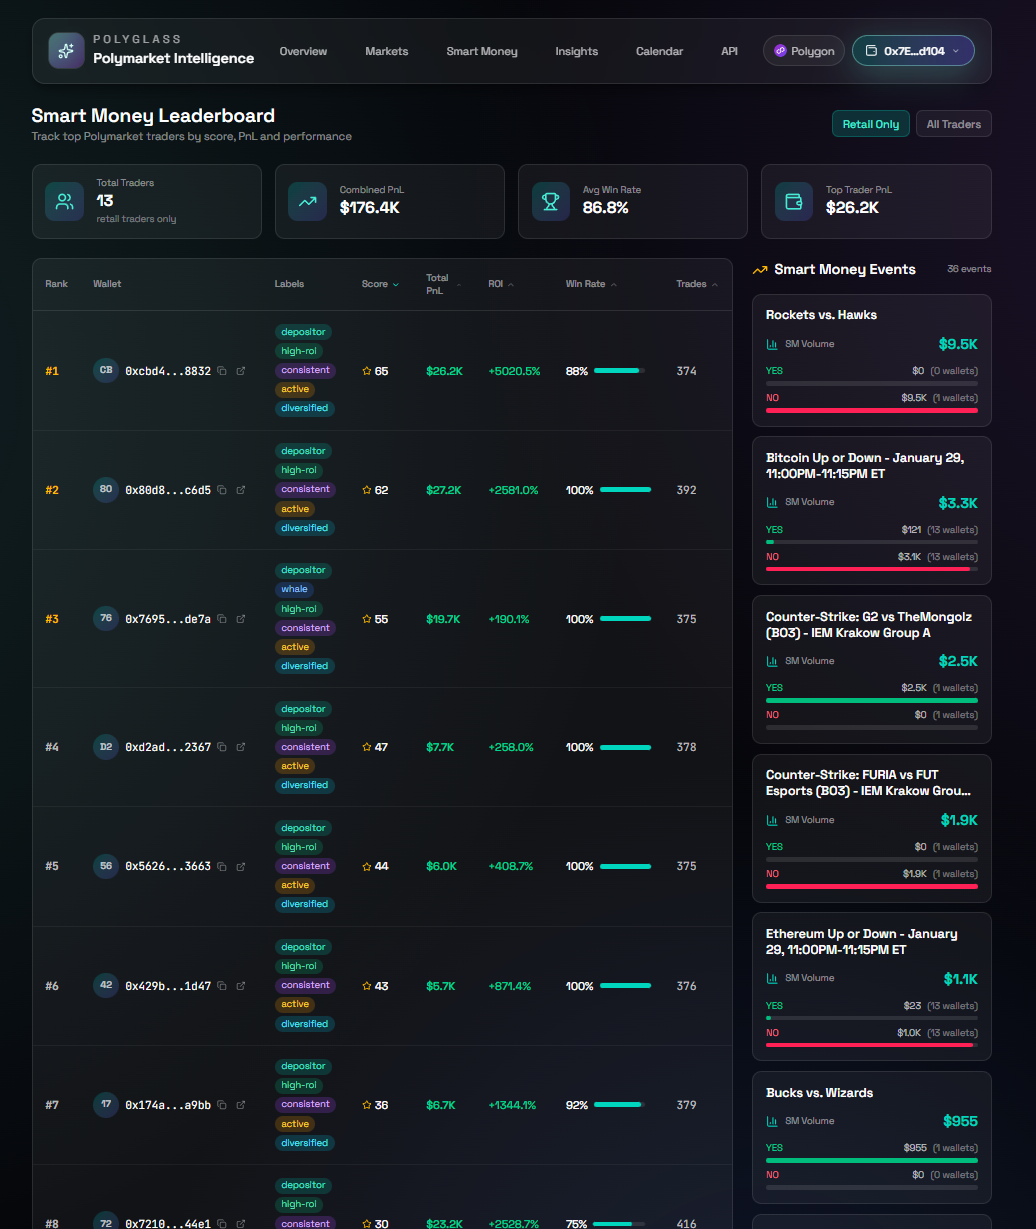
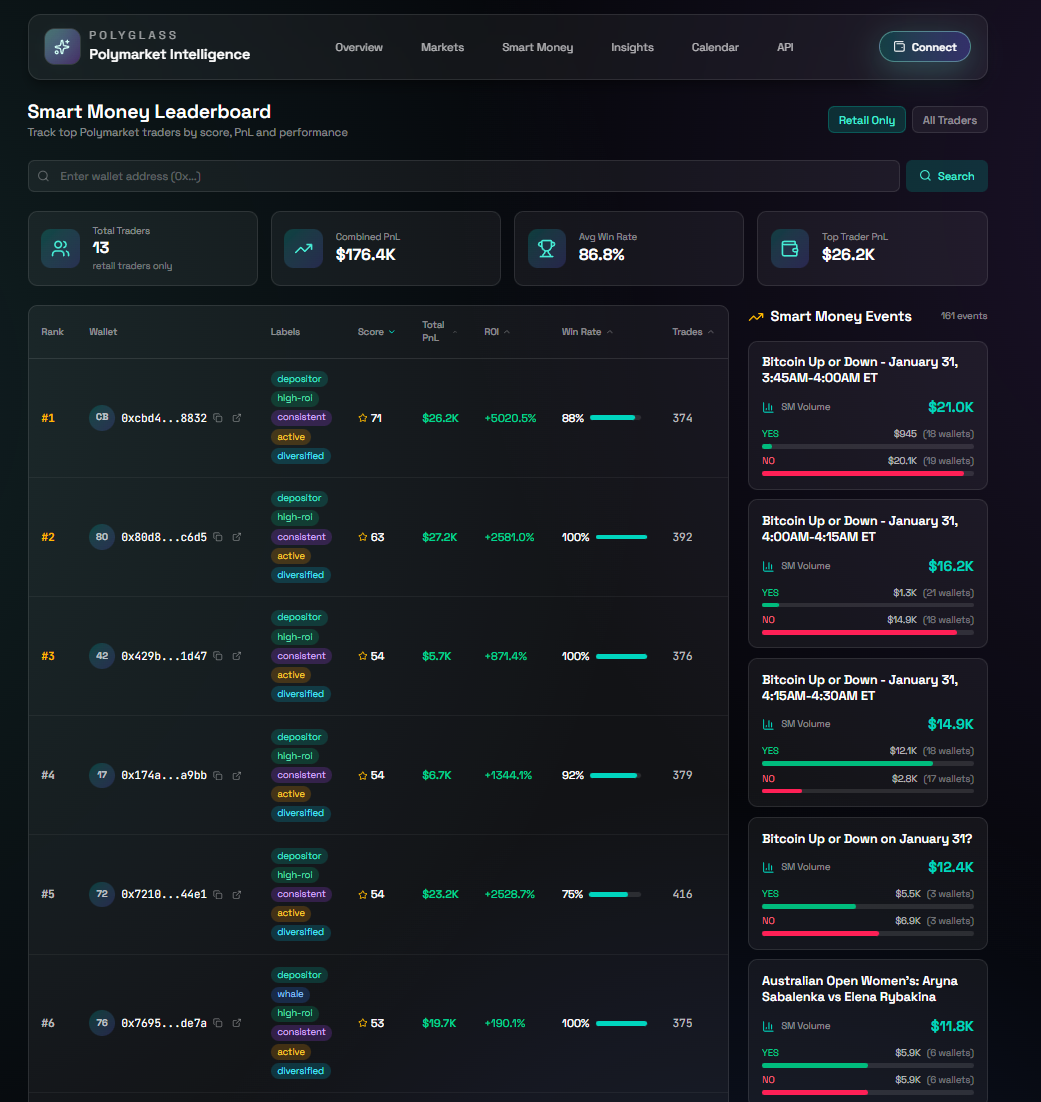
docs: update DEMO.md

diff --git a/DEMO.md b/DEMO.md
@@ -154,13 +154,14 @@ pnpm dev
 |----------|---------|
 | ![overview](screenshots/demo-1.png) | ![markets](screenshots/demo-2.png) |
 
-| Smart Money | Wallet Connect |
+| Smart Money | wallet search |
 |-------------|----------------|
-| ![smart-money](screenshots/demo-4.png) | ![connect](screenshots/demo-3.png) |
+| ![smart-money](screenshots/demo-4.png) | ![wallet-search](screenshots/demo-3.png) |
 
 | Insights | Calendar |
 |----------|----------|
 | ![insights](screenshots/demo-5.png) | ![calendar](screenshots/demo-6.png) |
+
 
 ---
 
